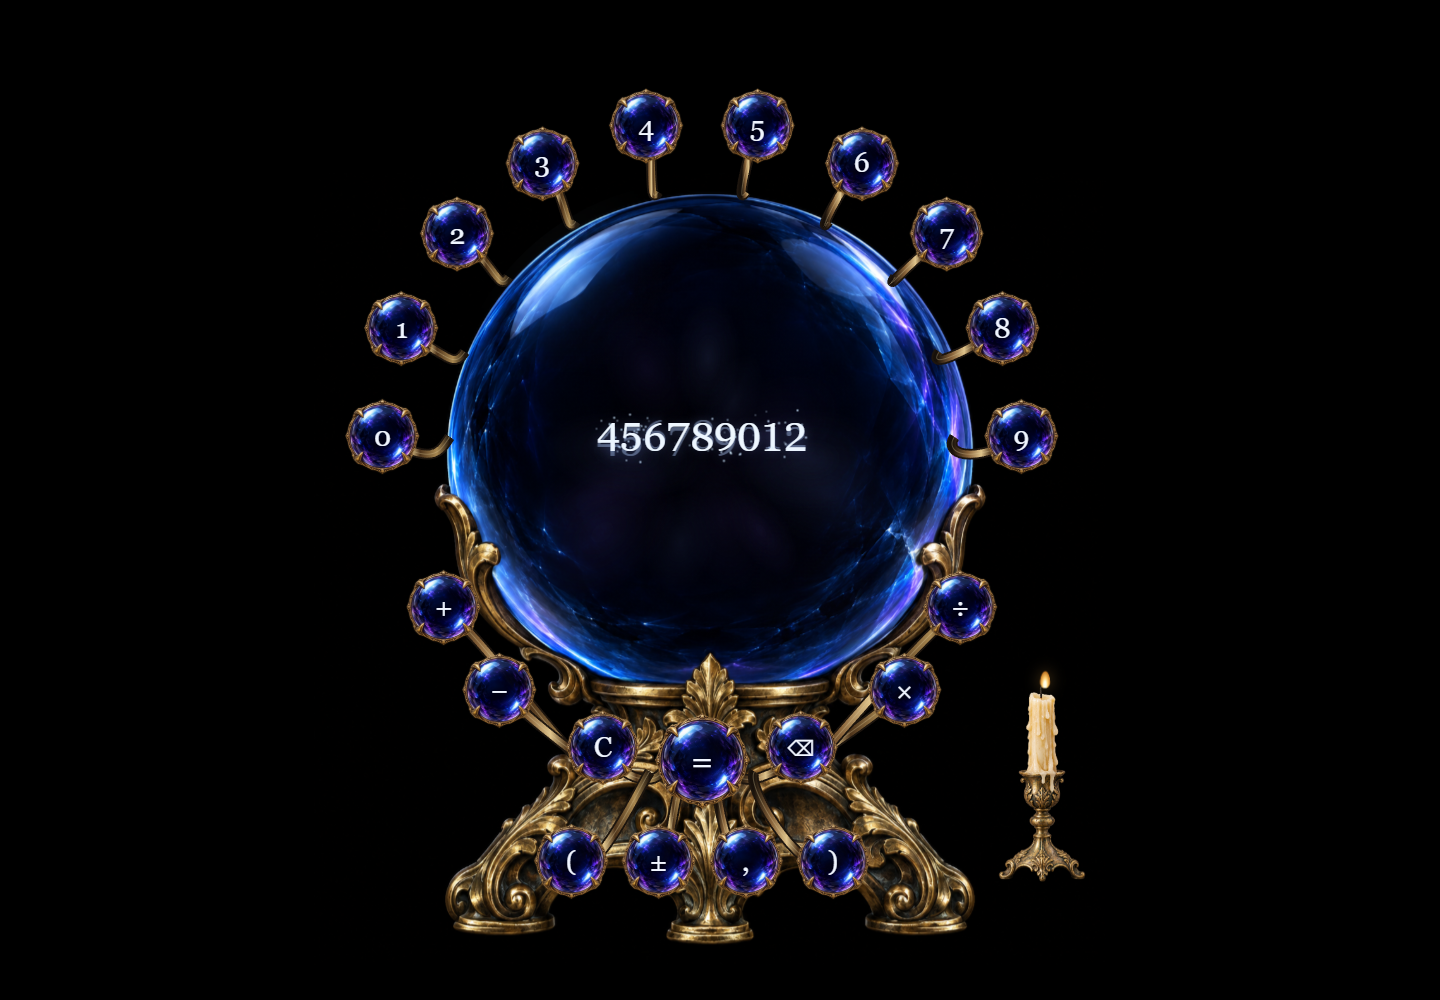
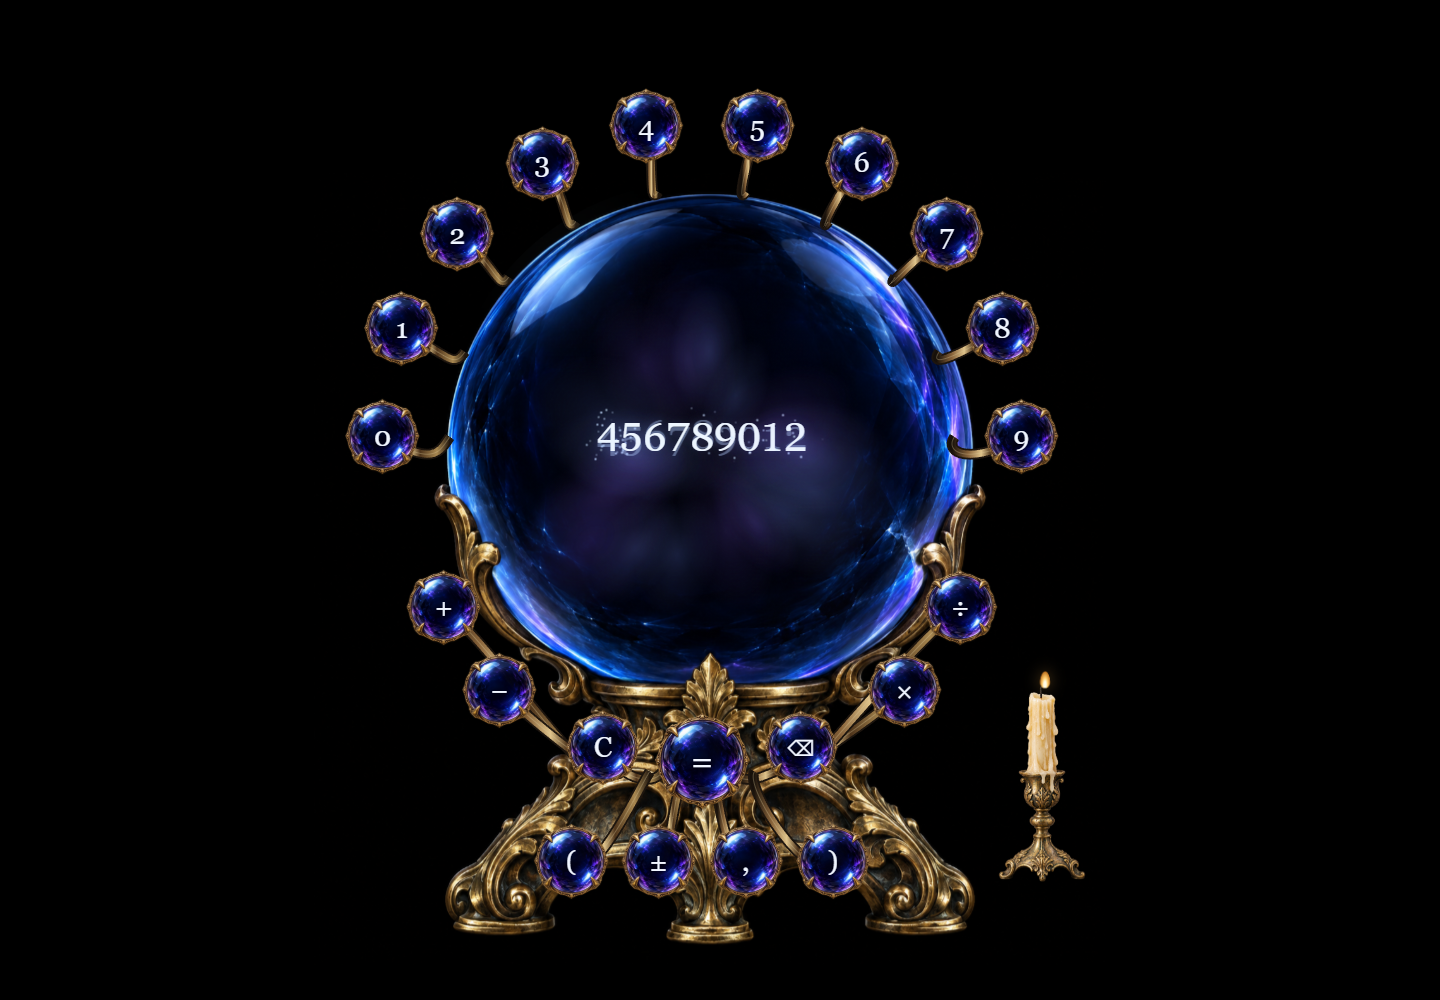
fix: show input instantly and accumulate visible smoke for hidden characters

Changed region(s): [[0.4062, 0.31, 0.5938, 0.589]]

diff --git a/src/smoke.js b/src/smoke.js
@@ -1,4 +1,8 @@
 const clamp=(x,a,b)=>Math.max(a,Math.min(b,x));
+export function smokeFill(hidden) {
+  const count=Math.max(0,hidden);
+  return { density:1-Math.exp(-count/10), rearCount:12+Math.min(36,count*2), frontCount:5+Math.min(8,Math.floor(count/3)) };
+}
 export class Smoke {
   constructor(rear,front){
     this.canvases=[rear,front];this.contexts=this.canvases.map(c=>c.getContext('2d'));this.particles=[];this.hidden=0;this.mode='idle';this.energy=0;this.last=0;this.frame=0;
@@ -22,16 +26,18 @@ export class Smoke {
     if(document.hidden){this.last=now;return;}
     if(now-this.last<33)return;
     const dt=Math.min((now-this.last)/1000,.06);this.last=now;
-    const size=this.size,t=now/1000;
+    const size=this.size,t=now/1000,fill=smokeFill(this.hidden);
     for(const [layer,ctx] of this.contexts.entries()){
       ctx.clearRect(0,0,size,size);ctx.save();ctx.scale(size,size);ctx.beginPath();ctx.arc(.5,.5,.485,0,Math.PI*2);ctx.clip();
-      const count=layer?5:12;
+      const count=layer?fill.frontCount:fill.rearCount;
       for(let i=0;i<count;i++){
         const angle=i*2.399+t*(this.reduced?.008:this.mode==='error'?.23:.026)*(i%2?1:-1);
-        const radius=this.mode==='result'?.07+.07*Math.sin(t*3+i):.2+.06*Math.sin(i+t*.12);
+        const radius=this.mode==='result'?.07+.07*Math.sin(t*3+i):.2+.06*Math.sin(i+t*.12)+fill.density*.12*Math.sin(i*1.3);
         const x=.5+Math.cos(angle)*radius,y=(layer&&this.mode==='error'?.76:.55)+Math.sin(angle)*radius*.82;
-        const extent=.28+.08*Math.sin(i*1.7+t*.2);
-        ctx.globalAlpha=clamp((layer?.18:.38)*(0.12+Math.log1p(this.hidden)*.12+this.energy*1.8),0,1);
+        const extent=.28+.08*Math.sin(i*1.7+t*.2)+fill.density*.12;
+        // Stored characters add persistent volume; only transient magic energy decays.
+        // Most density sits behind the text so a full orb remains readable.
+        ctx.globalAlpha=clamp((layer?.18:.38)*(0.12+fill.density*(layer?.7:2.4)+this.energy*1.8),0,1);
         if(this.mode==='error')ctx.globalAlpha*=1.35;
         ctx.save();ctx.translate(x,y);ctx.rotate(angle);ctx.scale(1,.58+.1*Math.sin(t+i));
         ctx.drawImage(this.sprites[this.mode==='error'?2:i%2],-extent/2,-extent/2,extent,extent);ctx.restore();

diff --git a/tests/browser/calculator.spec.js b/tests/browser/calculator.spec.js
@@ -2,6 +2,11 @@ import {test,expect} from '@playwright/test';
 test.beforeEach(async({page})=>{await page.goto('/');await page.waitForFunction(()=>[...document.images].every(i=>i.complete));});
 const key=async(page,text)=>{for(const k of text)await page.keyboard.press(k);};
 const display=page=>page.locator('#display');
+test('typed digits are immediately visible without a reveal animation',async({page})=>{
+  await page.keyboard.press('7');
+  const state=await display(page).evaluate(el=>({text:el.textContent,opacity:getComputedStyle(el.firstElementChild).opacity,animations:el.getAnimations({subtree:true}).length}));
+  expect(state).toEqual({text:'7',opacity:'1',animations:0});
+});
 test('empty initial state and local assets',async({page})=>{await expect(display(page)).toHaveText('');expect(await page.locator('img').evaluateAll(images=>images.every(i=>i.naturalWidth>0))).toBe(true);});
 test('mouse and keyboard arithmetic parity',async({page})=>{
   await page.getByRole('button',{name:'2',exact:true}).click();await page.getByRole('button',{name:'Plus',exact:true}).click();await key(page,'3*4');await page.keyboard.press('Enter');await expect(display(page)).toHaveText('14');

diff --git a/src/animation.js b/src/animation.js
@@ -7,7 +7,7 @@ export class AnimationController {
   clear(){this.cancel();this.smoke.reset();this.display.show('',{animate:false});}
   input(text,hidden,effect){
     const previousPoints=this.display.points();
-    this.cancel();this.smoke.setHidden(hidden);this.display.show(text,{reverse:effect.reverse});
+    this.cancel();this.smoke.setHidden(hidden);this.display.show(text,{animate:false,reverse:effect.reverse});
     const nextPoints=this.display.points();
     if(effect.delta){const points=effect.delta<0?nextPoints:previousPoints;for(const p of points.slice(0,Math.abs(effect.delta)))this.smoke.burst(p.x,p.y,15,effect.delta<0);}
     else if(text){const p=nextPoints.at(-1);if(p)this.smoke.burst(p.x,p.y,5);}

diff --git a/tests/smoke.test.js b/tests/smoke.test.js
@@ -1,0 +1,12 @@
+import test from 'node:test';
+import assert from 'node:assert/strict';
+import {smokeFill} from '../src/smoke.js';
+test('every displaced character increases persistent smoke density',()=>{
+  for(let hidden=1;hidden<=100;hidden++)assert.ok(smokeFill(hidden).density>smokeFill(hidden-1).density);
+  assert.ok(smokeFill(1).rearCount>smokeFill(0).rearCount);
+});
+test('restoring characters restores the same smoke fill and reset clears it',()=>{
+  const original=smokeFill(3);smokeFill(12);assert.deepEqual(smokeFill(3),original);
+  assert.equal(smokeFill(0).density,0);
+  assert.ok(smokeFill(512).rearCount<=48);assert.ok(smokeFill(512).frontCount<=13);
+});

diff --git a/docs/REVIEWS.md b/docs/REVIEWS.md
@@ -34,3 +34,7 @@ Leistungsgrenzen: maximal 180 Lichtpartikel; vorgerechnete Rauch-Sprites, 17 Neb
 - Prüfbilder: `desktop.png`, `portrait.png`, `expression.png`, `result-condensation.png`, `wizard.png`.
 - Audioknoten und Zeitablauf wurden automatisiert geprüft; eine gehörte Qualitätsabnahme des Klangs wurde nicht durchgeführt.
 - Premium-Endabnahme bleibt wegen des bewusst synthetischen Tons und der offenen langen Ergebnisdarstellung eingeschränkt. Reale Mobilgeräte sind noch nicht geprüft.
+
+## Nachbesserung: sofortige Eingabe und Rauchfüllung
+Nutzerwunsch umgesetzt auf `codex/task-06-instant-input-smoke`: Eingaben erscheinen ohne Einblendverzögerung unmittelbar an ihrer endgültigen Position. Jedes verdrängte Zeichen erhöht die dauerhafte Rauchfüllung; größere Rauchflächen und zusätzliche begrenzte Nebelformen machen dies sichtbar. Backspace reduziert die Füllung entsprechend, C leert sie. Der überwiegende Rauch bleibt hinter der Schrift. Maximal 48 hintere und 13 vordere Nebelformen.
+Prüfung: 44 Unit-Tests und sechs gezielte Desktop-/Portrait-Browsertests bestanden; aktualisierte Vorschau visuell geprüft.
